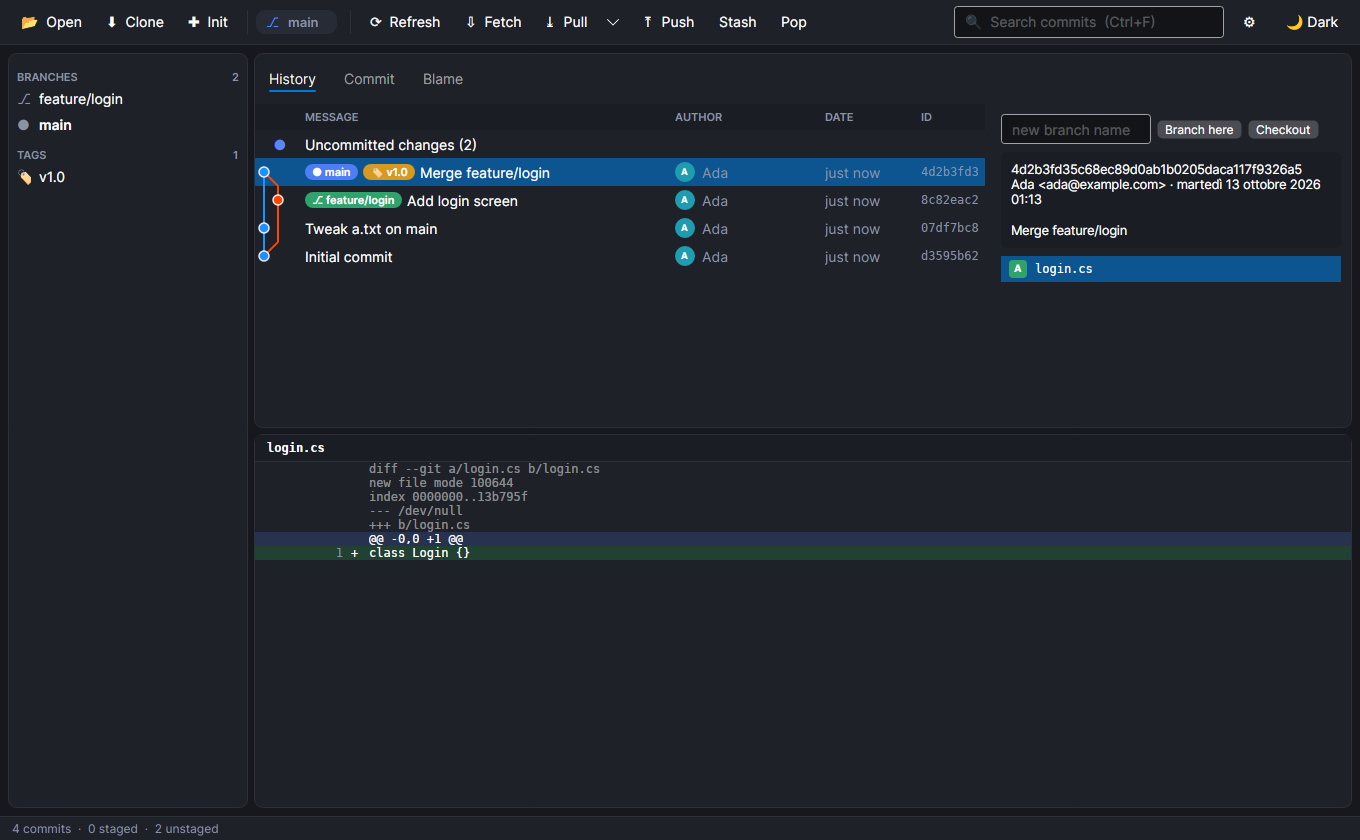
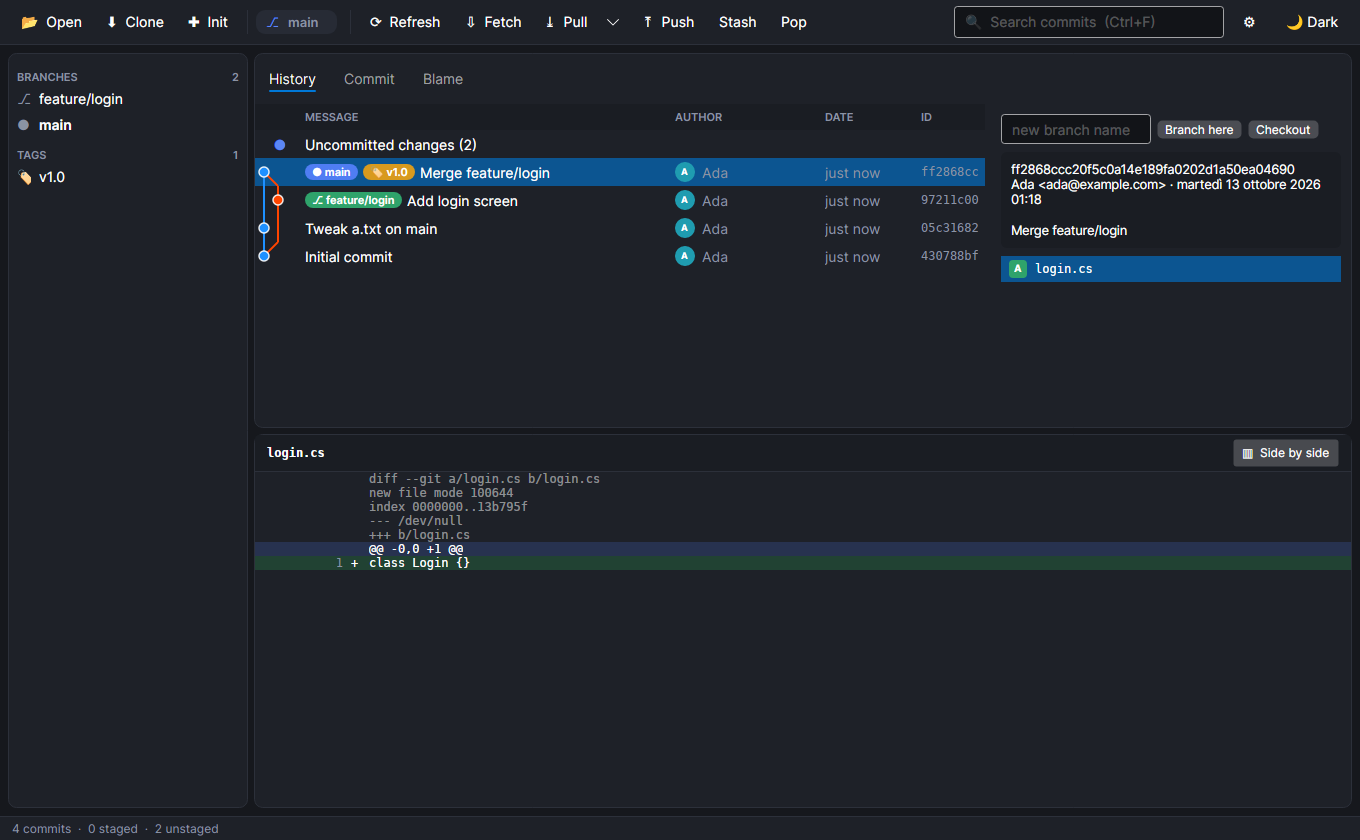
feat(app): intra-line change highlighting and side-by-side diff view
New DiffText control highlights the edited characters; Unified/Side-by-side toggle is persisted. The commit action row wraps on narrow windows. HOWTO and screenshots updated.

diff --git a/src/GitCross.App/ViewModels/MainViewModel.cs b/src/GitCross.App/ViewModels/MainViewModel.cs
@@ -105,6 +105,41 @@ public partial class MainViewModel : ObservableObject
     public ObservableCollection<FileChange> Unstaged { get; } = [];
     public ObservableCollection<FileChange> Staged { get; } = [];
     public ObservableCollection<DiffLine> Diff { get; } = [];
+    public ObservableCollection<SplitRow> SplitRows { get; } = [];
+
+    public bool IsSplitView
+    {
+        get => _settings.SplitDiff;
+        set
+        {
+            if (_settings.SplitDiff == value) { return; }
+            _settings.SplitDiff = value;
+            OnPropertyChanged();
+            OnPropertyChanged(nameof(IsUnifiedView));
+            OnPropertyChanged(nameof(ShowSplit));
+            OnPropertyChanged(nameof(ShowUnified));
+            RebuildSplit();
+            SaveSettings();
+        }
+    }
+
+    public bool IsUnifiedView => !IsSplitView;
+    public bool ShowSplit => IsSplitView && HasDiff;
+    public bool ShowUnified => !IsSplitView && HasDiff;
+
+    private void RebuildSplit()
+    {
+        SplitRows.Clear();
+        if (!IsSplitView)
+        {
+            return; // built lazily: only the visible mode pays for its layout
+        }
+
+        foreach (var r in SideBySide.Build(Diff.ToList()))
+        {
+            SplitRows.Add(r);
+        }
+    }
     public ObservableCollection<RecentRepo> Recent { get; } = [];
 
     /// <summary>Supplied by the view to ask before destructive actions (title, message → confirmed). Unset = proceed.</summary>
@@ -473,7 +508,7 @@ public partial class MainViewModel : ObservableObject
         Diff.Clear();
         CommitInfo = "";
         DiffTitle = "";
-        OnPropertyChanged(nameof(HasDiff));
+        NotifyDiffChanged();
     }
 
     private async Task LoadCommitAsync(HistoryItem item)
@@ -572,7 +607,7 @@ public partial class MainViewModel : ObservableObject
             }
 
             Replace(Diff, ConflictParser.Parse(text));
-            OnPropertyChanged(nameof(HasDiff));
+            NotifyDiffChanged();
         });
     }
 
@@ -593,8 +628,16 @@ public partial class MainViewModel : ObservableObject
             }
 
             Replace(Diff, DiffParser.Parse(text));
-            OnPropertyChanged(nameof(HasDiff));
+            NotifyDiffChanged();
         });
+    }
+
+    private void NotifyDiffChanged()
+    {
+        RebuildSplit();
+        OnPropertyChanged(nameof(HasDiff));
+        OnPropertyChanged(nameof(ShowSplit));
+        OnPropertyChanged(nameof(ShowUnified));
     }
 
     private void NotifyHunkState()

diff --git a/src/GitCross.App/Controls/DiffText.cs b/src/GitCross.App/Controls/DiffText.cs
@@ -1,0 +1,57 @@
+using Avalonia;
+using Avalonia.Controls;
+using Avalonia.Controls.Documents;
+using Avalonia.Media;
+using GitCross.Core.Diff;
+
+namespace GitCross.App.Controls;
+
+/// <summary>Text of one diff line; the edited characters (found by intra-line comparison) get a stronger background.</summary>
+public sealed class DiffText : TextBlock
+{
+    public static readonly StyledProperty<string?> SourceProperty = AvaloniaProperty.Register<DiffText, string?>(nameof(Source));
+    public static readonly StyledProperty<int> StartProperty = AvaloniaProperty.Register<DiffText, int>(nameof(Start));
+    public static readonly StyledProperty<int> LengthProperty = AvaloniaProperty.Register<DiffText, int>(nameof(Length));
+    public static readonly StyledProperty<DiffLineKind> KindProperty = AvaloniaProperty.Register<DiffText, DiffLineKind>(nameof(Kind));
+
+    private static readonly IBrush AddedStrong = new SolidColorBrush(Color.FromArgb(0x80, 0x2E, 0xB8, 0x5C));
+    private static readonly IBrush RemovedStrong = new SolidColorBrush(Color.FromArgb(0x80, 0xE5, 0x48, 0x4D));
+
+    public string? Source { get => GetValue(SourceProperty); set => SetValue(SourceProperty, value); }
+
+    public int Start { get => GetValue(StartProperty); set => SetValue(StartProperty, value); }
+
+    public int Length { get => GetValue(LengthProperty); set => SetValue(LengthProperty, value); }
+
+    public DiffLineKind Kind { get => GetValue(KindProperty); set => SetValue(KindProperty, value); }
+
+    protected override Type StyleKeyOverride => typeof(TextBlock);
+
+    protected override void OnPropertyChanged(AvaloniaPropertyChangedEventArgs change)
+    {
+        base.OnPropertyChanged(change);
+        if (change.Property == SourceProperty || change.Property == StartProperty
+            || change.Property == LengthProperty || change.Property == KindProperty)
+        {
+            Rebuild();
+        }
+    }
+
+    private void Rebuild()
+    {
+        var text = Source ?? "";
+        if (Length <= 0 || Start < 0 || Start + Length > text.Length)
+        {
+            Inlines?.Clear();
+            Text = text;
+            return;
+        }
+
+        Text = null;
+        Inlines ??= [];
+        Inlines.Clear();
+        Inlines.Add(new Run(text[..Start]));
+        Inlines.Add(new Run(text.Substring(Start, Length)) { Background = Kind == DiffLineKind.Added ? AddedStrong : RemovedStrong });
+        Inlines.Add(new Run(text[(Start + Length)..]));
+    }
+}

diff --git a/tests/GitCross.App.UiTests/WindowRenderTests.cs b/tests/GitCross.App.UiTests/WindowRenderTests.cs
@@ -291,6 +291,40 @@ public class WindowRenderTests
         Assert.True(search < 3_000, $"filtering took {search} ms");
     }
 
+    [AvaloniaFact]
+    public async Task Inline_highlight_and_split_view_render()
+    {
+        var repo = NewRepo();
+        var f = Path.Combine(repo, "cart.js");
+        File.WriteAllText(f, "function total(items) {\n  let total = price * 2;\n  const tax = 0.2;\n  return total + tax;\n}\n");
+        Git(repo, "add ."); Git(repo, "commit -qm cart");
+        File.WriteAllText(f, "function total(items) {\n  let total = price * 3;\n  const tax = 0.22;\n  const discount = 5;\n  return total + tax - discount;\n}\n");
+
+        var settingsPath = Path.Combine(repo, "..", "gxc-s-" + Guid.NewGuid() + ".json");
+        var vm = new MainViewModel(new SettingsStore(settingsPath));
+        var w = new MainWindow(vm);
+        w.Show();
+        await vm.OpenAsync(repo);
+        vm.SelectedItem = vm.Items[0];
+        await Settle();
+        vm.SelectedUnstaged = vm.Unstaged.Single(x => x.Path == "cart.js");
+        await Settle();
+
+        var removed = vm.Diff.First(l => l.Kind == Core.Diff.DiffLineKind.Removed);
+        Assert.Equal("2", removed.Text.Substring(removed.ChangeStart, removed.ChangeLength));
+        Assert.True(vm.ShowUnified);
+        Shot(w, "diff-unified.png");
+
+        vm.IsSplitView = true;
+        await Settle();
+        Assert.True(vm.ShowSplit);
+        Assert.NotEmpty(vm.SplitRows);
+        Shot(w, "diff-split.png");
+
+        // the choice is remembered across restarts
+        Assert.True(new SettingsStore(settingsPath).Load().SplitDiff);
+    }
+
     private static string NewRepo()
     {
         var repo = Path.Combine(Path.GetTempPath(), "gxc-ui-" + Guid.NewGuid().ToString("N")[..8]);

diff --git a/src/GitCross.Core/Settings/AppSettings.cs b/src/GitCross.Core/Settings/AppSettings.cs
@@ -19,6 +19,9 @@ public sealed class AppSettings
     /// <summary>When true the toolbar Pull button rebases instead of merging.</summary>
     public bool PullRebase { get; set; }
 
+    /// <summary>Diff viewer shows old and new side by side instead of unified.</summary>
+    public bool SplitDiff { get; set; }
+
     /// <summary>How many commits the history loads.</summary>
     public int MaxCommits { get; set; } = 2000;
 

diff --git a/docs/HOWTO.md b/docs/HOWTO.md
@@ -167,13 +167,20 @@ Right-click a file for **Blame (at this commit)** and **File history** (section 
 
 ### The diff panel
 
-![Diff panel with line numbers](images/hunks.png)
+![Unified diff with highlighted characters](images/diff-unified.png)
 
 * Two number columns: old line and new line.
 * **Green** lines are added (`+`), **red** lines removed (`−`), **blue** bars are hunk headers, dim lines are file headers.
+* **Edited characters are highlighted** inside a changed line: when a removed line and the added line that replaces it are similar (for example `price * 2` → `price * 3`), only the characters that actually changed get a stronger background, so you can spot the real edit at a glance. Lines that were rewritten completely are not partially highlighted.
 * Long lines scroll horizontally. You can select several lines.
 * For merge commits the diff is shown against the **first parent**.
 * Untracked (new, never-added) files are shown as entirely added.
+
+### Side-by-side view
+
+![Side-by-side diff](images/diff-split.png)
+
+Click **▥ Side by side** at the right of the diff header to show the old version on the left and the new on the right (click again to go back to unified). Removed and added lines are paired in order, so edits line up across the two columns; a blank cell means a line exists on only one side. File and hunk headers span both sides and keep their **Stage hunk / Discard hunk** buttons. The mode you choose is remembered the next time you start the app.
 
 ## 9. Making a commit
 
@@ -378,6 +385,6 @@ Branch deletion is always the *safe* kind (`-d`); git itself refuses to delete u
 * Interactive rebase (reordering/squashing/editing commits in a todo list) is not available; plain rebase onto a branch is. A rebase started elsewhere is recognized and can be continued or aborted.
 * Conflicts are resolved per file (take a side, or edit in your editor); there is no built-in three-way merge editor.
 * Staging works per file and per hunk; line-by-line selection inside a hunk is not available.
-* Diffs are plain (no syntax highlighting or side-by-side view yet).
+* Diffs highlight changes but have no language syntax coloring yet. In side-by-side mode lines are paired by position, so when a block changes many lines the pairs can look offset.
 * The history view loads a limited number of commits (2000 by default; see Settings).
 * Submodules, plugins, shell integration and localization are not implemented yet (see `docs/PORTING.md`).

diff --git a/docs/PORTING.md b/docs/PORTING.md
@@ -7,7 +7,7 @@
 | Commit search | Done | subject/author/sha/ref; hides graph while filtering |
 | Branches / remotes / tags sidebar, checkout | Done | |
 | Create branch, checkout commit | Done | |
-| Commit diff viewer | Done | line numbers, colored; no side-by-side / syntax highlight yet |
+| Commit diff viewer | Done | line numbers, intra-line highlights, side-by-side toggle; no syntax highlighting yet |
 | Stage / unstage / commit / amend | Done | file-level only |
 | Fetch / Pull / Push | Done | no progress output, no credentials UI |
 | Stash push/pop/apply/drop + list | Done | sidebar section, context menu; untracked files in a stash are not shown |
